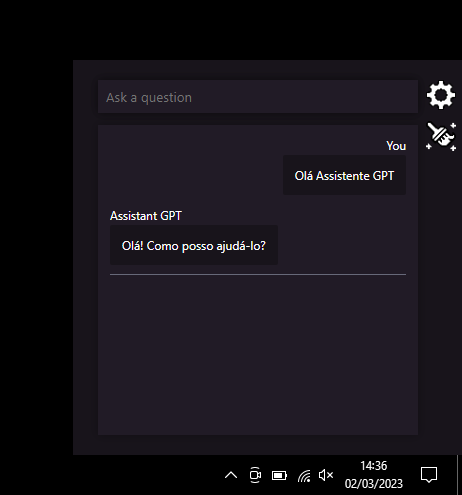
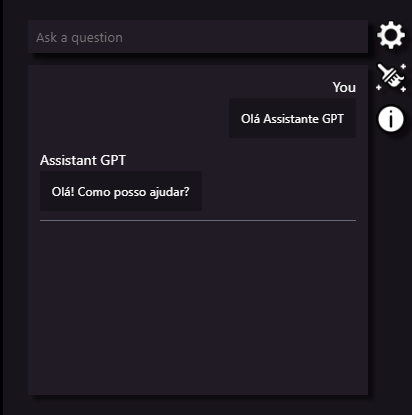
update window/update imgs

diff --git a/src/browser-window.js b/src/browser-window.js
@@ -9,7 +9,7 @@ const { height, width } = win2.getBounds()
 win2.close()
 
 function createWindow() {
-    const boundsInitial = { width: 395, height: 395 }
+    const boundsInitial = { width: 415, height: 415 }
     const win = new BrowserWindow({
         ...boundsInitial,
         minWidth: 250,
